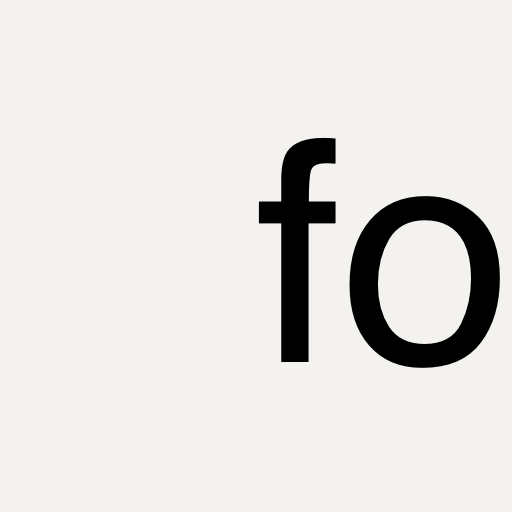
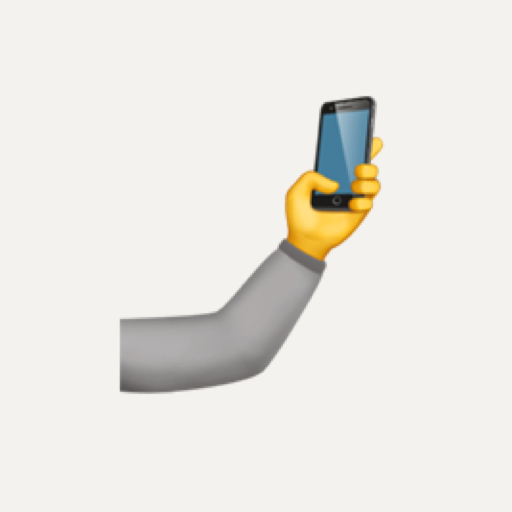
三個 App 的範圍各自限定在自己的頁面，避免 Android 裝一個後其他不能裝；PayPay 圖示改為 🤳

Changed region(s): [[0.2188, 0.1875, 1.0, 0.7812]]

diff --git a/AGENTS.md b/AGENTS.md
@@ -6,7 +6,7 @@
 ## Project
 
 - Car-navigation quick-reference list for the Hokkaido road trip (10/25, 10/26, 10/27, 10/31), published as a static site on GitHub Pages from the public repo `yucjtw/hokaido-car`. Svelte 5 + Vite, no SvelteKit.
-- Each tool is its own page, added to the phone's home screen as a separate app: `nav.html` (導航清單, map codes), `paypay.html`, `cards.html`. `index.html` only lists them. A new page needs its entry in `vite.config.ts`, its own `public/<name>.webmanifest` (own `start_url`, no `id`, so each page stays a separate app), icons from `scripts/icon.swift`, `setUpPwa()` in its `main.ts`, and a link in `index.html`.
+- Each tool is its own page, added to the phone's home screen as a separate app: `nav.html` (導航清單, map codes), `paypay.html`, `cards.html`. `index.html` only lists them. A new page needs its entry in `vite.config.ts`, its own `public/<name>.webmanifest` (own `start_url`, `scope` set to the page itself, no `id`; a shared scope makes Android Chrome treat the other pages as already installed), icons from `scripts/icon.swift`, `setUpPwa()` in its `main.ts`, and a link in `index.html`.
 - Offline: `service-worker.js` is a template; the build writes `dist/sw.js` with every built and public file listed and a version that changes when any file does. Pages load from the network first and fall back to the saved copy after 3 seconds, so deployed data changes reach phones that are online.
 - All place data lives in `src/data/days.ts`; its shape is in `src/data/types.ts`. Each day has area sections, each section has spots.
 - On load the page opens the tab named in the URL hash, else the tab for the browser's local date, else the next upcoming day, else the first day.
